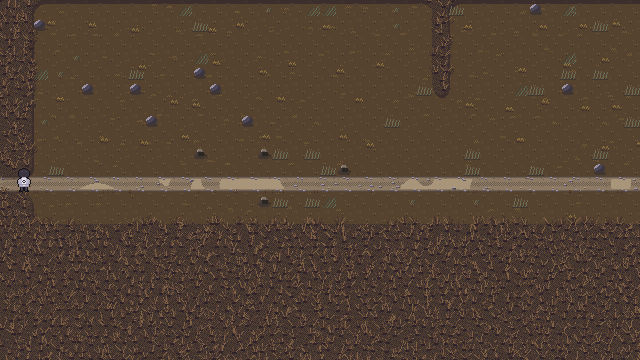
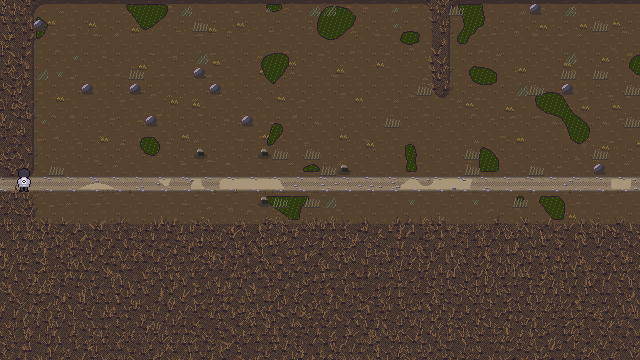
feat(terreno): rasgos de región en lo enfermo y cierre del paso 4a

diff --git a/tools/gen_tierra_viva_terrain.py b/tools/gen_tierra_viva_terrain.py
@@ -80,6 +80,8 @@ def palette(state: str, region: str) -> dict[str, list[np.ndarray]]:
                               "ash", "gold", "roof_red", "ink")}
     dead = seven(ramp("dead_leaf"), [0, 1, 2, 3, 4, 5, 5])
     p["dead"] = dead
+    p["sludge"] = ramp("sludge")
+    p["smog"] = ramp("smog")
     p["fire"] = ramp("fire")
     p["frailejon"] = seven(ramp("frailejon"), [0, 0, 1, 2, 3, 4, 4])
     if region == "cumbre":
@@ -482,8 +484,10 @@ def piece(kind, P, rs):
         W, H = 14, 26
         img = np.zeros((H, W, 4), np.uint8)
         dry = kind == "frailejon_dry"
-        skirt = P["dead"]
-        # tronco cubierto de hojas secas, como el frailejón de verdad
+        # tronco cubierto de hojas secas, como el frailejón de verdad. En lo
+        # sano, madera (neutra): `dead_leaf` es solo de lo enfermo y el
+        # cuantizado la tapaba (111 494 px movidos en la Cumbre sana).
+        skirt = P["dead"] if dry else P["wood"]
         img[9:H, 5:9] = skirt[2]
         img[9:H, 5:6] = skirt[3]
         img[9:H:3, 5:9] = skirt[1]
@@ -756,7 +760,41 @@ def render_crypt(lines: list[str], state: str) -> np.ndarray:
                 img[y, x:x + 3] = g[4]
                 img[y + 1, x:x + 3] = g[2]
                 img[y, x] = g[5]
+    if sick:
+        # smog: donde en lo sano entra la luz, en lo enfermo flotan jirones
+        # finos de humo, tramados y escasos (es una rampa clara y baja el valor)
+        wisp = floor & ~carpet & (crypt_light(H, W) > 0) & ((xx + yy * 3) % 5 == 0) & ((xx // 3 + yy) % 4 == 0)
+        img[wisp] = P["smog"][0]
     return img
+
+
+def paint_blight(img, ground, region: str, state: str, P: dict, rng) -> None:
+    """El daño propio de cada región sobre el suelo libre (sistema de diseño,
+    «Mundo enfermo, uno por región»): lodo de monocultivo en la Llanura y
+    hollín en la Cumbre. El ruido se calcula en los dos estados para que la
+    semilla no se desalinee; solo se pinta en lo enfermo."""
+    H, W = ground.shape
+    nz = ndi.gaussian_filter(rng.random((H // 8 + 2, W // 8 + 2)), 1.6)
+    nz = ndi.zoom(nz, 8, order=1)[:H, :W]
+    if state == "sano" or region not in ("llanura", "cumbre"):
+        return
+    yy, xx = np.indices(ground.shape)
+    chk = (xx + yy) % 2 == 0
+    if region == "llanura":
+        # charcos de lodo en el tono más bajo de su rampa, con grumos sueltos
+        # un tono arriba y borde de hierba seca oscura. Con el tono medio
+        # salían verde lima, y en este juego el verde dice «purificado».
+        blob = ground & (nz > np.quantile(nz, 0.93))
+        blob = ndi.binary_opening(blob, disk(2))
+        sl = P["sludge"]
+        img[blob] = sl[0]
+        img[blob & chk & ((xx * 3 + yy) % 7 == 0)] = sl[1]
+        img[edge(blob, 1)] = P["grass"][1]
+    else:
+        # hollín tramado: manchas de ceniza sobre el pajonal seco
+        blob = ground & (nz > np.quantile(nz, 0.80))
+        img[blob & chk] = P["ash"][0]
+        img[blob & ~chk & ((xx + 2 * yy) % 3 == 0)] = P["ash"][1]
 
 
 def render(lines: list[str], state: str, region: str) -> np.ndarray:
@@ -793,6 +831,7 @@ def render(lines: list[str], state: str, region: str) -> np.ndarray:
 
     free = ~ndi.binary_dilation(path | wat | foliage | sand, iterations=4)
     paint_tufts(img, free, P, rng)
+    paint_blight(img, free, region, state, P, rng)
     paint_mass(img, foliage, region, state, P, rng)
     return img
 

diff --git a/docs/ux/sistema-de-diseno/documentos/2026-10-30-tierra-viva.md b/docs/ux/sistema-de-diseno/documentos/2026-10-30-tierra-viva.md
@@ -569,3 +569,98 @@ fuente, columnas de la Cripta) es el viejo y se rehace en el paso 4.
 - los sprites del catálogo de cada `*.deco.txt`, con el estilo del
   prototipo y el contorno de su rampa;
 - los edificios y vecinos de PixelLab, a `assets/source/pixellab/`.
+
+**Visto bueno de Diego al paso 3: 2026-10-31.**
+
+#### Corrección contra el sistema de diseño · 2026-11-01
+
+Diego descargó el sistema de diseño «Tierra Viva» y ahora está en el repo, en
+`docs/ux/sistema-de-diseno/`. Al cotejar los pasos 2 y 3 con él salieron
+diferencias, y Diego aprobó corregirlas (2026-10-31):
+
+- **Bosque enfermo = incendio** (`ash` + `fire`): árboles quemados sin copa,
+  con hollín al pie y brasas. Antes eran copas de hoja muerta.
+- **Los bosques se cierran con muros de árboles solapados**, con troncos;
+  antes eran una alfombra de copas.
+- **Arbustos enfermos = ramitas secas**, no manchas oscuras.
+- **Rasgos de región pendientes:** `sludge` en la Llanura enferma, hollín
+  sobre `ice` en la Cumbre y `smog` en la Cripta.
+- **Para otras partes:** la caja de diálogo (papel con marco de madera)
+  choca con el contrato «Columna» de la parte 5; el cartel de lugar, el HUD
+  de acción y los personajes de 48 px son de R2 y R3.
+
+#### Enmienda 14 — La masa sustituye al relleno · autorizada por Diego el 2026-10-31
+
+- En una zona con suelo de Tierra Viva, las piezas `tree`, `tree_b`,
+  `burnt_tree`, `bush`, `pine` y `boulder` que caen **enteras dentro del
+  follaje sólido** no se montan: ni sprite ni cuerpo. La colisión ya sale de
+  la matriz. Antes eran unas 4.400 piezas en las seis regiones.
+  - `WorldDecor.FILL`, `has_terrain()` e `is_fill()`.
+  - `verify_zone` cuenta con la misma regla.
+  - El Bosque pasa de unos 680 sprites de decorado a 82.
+- **Cada región tiene su masa** en el generador (`MASS` en
+  `gen_tierra_viva_terrain.py`), colocada en los mismos sitios en los dos
+  estados:
+
+  | Región | Sano | Enfermo |
+  |---|---|---|
+  | Bosque | muro de árboles solapados | árboles quemados con brasas; el borde entero y uno de cada tres dentro |
+  | Cuenca | muro de árboles | árboles quemados sin brasas |
+  | Costa y Llanura | arbustos | ramitas secas |
+  | Cumbre | frailejones | frailejones secos |
+
+**Paso 4a, estado al 2026-11-01 (parcial, subido para que el equipo siga):**
+
+- **Medido en verde:**
+  - `verify_palette image` y `tv-state` en las doce imágenes;
+  - `value`: Bosque 1,63–1,79, Cuenca 1,54–1,67, Costa 1,54–1,60,
+    Llanura 1,83–2,09 y Cumbre 2,35–2,53;
+  - `verify_terrain` 7/7 en las seis regiones;
+  - `verify_usability` 16/16, `verify_camera` 37/37, `verify_encounters`
+    82/82, `verify_flow` 23/23, `verify_party_ai` 19/19 y
+    `verify_movement` 99/99;
+  - `verify_zone`: Bosque 46/46 y Valdehoja 55/55.
+- **Sin medir:** `verify_zone` en Cuenca, Costa, Llanura, Cumbre y Cripta.
+  La pasada se cortó porque el equipo se quedó sin memoria, no por un
+  fallo. Es lo primero que hay que correr.
+- **Falta:**
+  - el `sludge` de la Llanura, el hollín sobre `ice` de la Cumbre y el
+    `smog` de la Cripta;
+  - repasar las capturas a 640 × 360: `verify_terrain` ya las regeneró con
+    las masas nuevas (`2026-10-31-terreno-<zona>-*.png`), pero falta
+    rehacerlas con los rasgos de región;
+  - el visto bueno de Diego.
+- **El paso a paso desde aquí** está en `docs/guia-del-equipo.md`.
+
+#### Paso 4a — Cierre: rasgos de región · 2026-11-01
+
+- **`verify_zone` en las cinco zonas que faltaban, en verde:** Cuenca 45/45,
+  Costa 47/47, Llanura 45/45, Cumbre 46/46 y Cripta 50/50.
+- **`paint_blight`**, el daño propio de cada región sobre el suelo libre.
+  El ruido se calcula en los dos estados, para que la semilla no se
+  desalinee, y solo se pinta en lo enfermo:
+  - **Llanura:** charcos de lodo (`sludge`) en el tono más bajo de la
+    rampa, con grumos y borde de hierba seca.
+  - **Cumbre:** hollín tramado en los dos tonos más oscuros de la ceniza.
+- **Cripta:** jirones de `smog` finos y escasos donde en lo sano entra la
+  luz.
+- **Dos fallos propios, y se dicen:**
+  1. **El lodo salió verde lima** con el tono medio de su rampa. En este
+     juego el verde dice «purificado», así que se bajó al tono más oscuro y
+     a manchas más pequeñas. El hollín se leía como charcos azulados: se
+     oscureció igual.
+  2. **El frailejón sano llevaba la falda en `dead_leaf`,** que es solo de
+     lo enfermo. El cuantizado lo tapaba moviendo 111 494 px en la Cumbre
+     sana, y se vio por su contador. Ahora la falda es madera (neutra) y
+     **las doce imágenes salen con 0 píxeles movidos**: todo nace en su
+     token.
+- **Medido:**
+  - `verify_palette image` y `tv-state` en verde;
+  - `value`: Llanura 1,84–2,10, Cumbre 2,42–2,61 y Cripta 1,76–1,78; las
+    demás, como en la entrada anterior;
+  - `verify_terrain` 7/7 en las seis regiones.
+- **Capturas a 640 × 360:**
+  `docs/ux/capturas/2026-10-31-terreno-<zona>-{enfermo,ola,sano}.png`.
+
+**Siguiente:** paso 4b, los sprites del catálogo, empezando por el Bosque
+(guía del equipo, §4.2).

diff --git a/docs/ux/anexos/2026-10-30-tierra-viva.md b/docs/ux/anexos/2026-10-30-tierra-viva.md
@@ -631,3 +631,36 @@ diferencias, y Diego aprobó corregirlas (2026-10-31):
     rehacerlas con los rasgos de región;
   - el visto bueno de Diego.
 - **El paso a paso desde aquí** está en `docs/guia-del-equipo.md`.
+
+#### Paso 4a — Cierre: rasgos de región · 2026-11-01
+
+- **`verify_zone` en las cinco zonas que faltaban, en verde:** Cuenca 45/45,
+  Costa 47/47, Llanura 45/45, Cumbre 46/46 y Cripta 50/50.
+- **`paint_blight`**, el daño propio de cada región sobre el suelo libre.
+  El ruido se calcula en los dos estados, para que la semilla no se
+  desalinee, y solo se pinta en lo enfermo:
+  - **Llanura:** charcos de lodo (`sludge`) en el tono más bajo de la
+    rampa, con grumos y borde de hierba seca.
+  - **Cumbre:** hollín tramado en los dos tonos más oscuros de la ceniza.
+- **Cripta:** jirones de `smog` finos y escasos donde en lo sano entra la
+  luz.
+- **Dos fallos propios, y se dicen:**
+  1. **El lodo salió verde lima** con el tono medio de su rampa. En este
+     juego el verde dice «purificado», así que se bajó al tono más oscuro y
+     a manchas más pequeñas. El hollín se leía como charcos azulados: se
+     oscureció igual.
+  2. **El frailejón sano llevaba la falda en `dead_leaf`,** que es solo de
+     lo enfermo. El cuantizado lo tapaba moviendo 111 494 px en la Cumbre
+     sana, y se vio por su contador. Ahora la falda es madera (neutra) y
+     **las doce imágenes salen con 0 píxeles movidos**: todo nace en su
+     token.
+- **Medido:**
+  - `verify_palette image` y `tv-state` en verde;
+  - `value`: Llanura 1,84–2,10, Cumbre 2,42–2,61 y Cripta 1,76–1,78; las
+    demás, como en la entrada anterior;
+  - `verify_terrain` 7/7 en las seis regiones.
+- **Capturas a 640 × 360:**
+  `docs/ux/capturas/2026-10-31-terreno-<zona>-{enfermo,ola,sano}.png`.
+
+**Siguiente:** paso 4b, los sprites del catálogo, empezando por el Bosque
+(guía del equipo, §4.2).

diff --git a/docs/guia-del-equipo.md b/docs/guia-del-equipo.md
@@ -1,6 +1,6 @@
 # Guía del equipo: de aquí hasta el juego terminado
 
-Para **Diego y su compañero**. Dice cómo preparar el equipo, cómo se trabaja,
+Para **Diego y su compañero**. **Siguiente tarea: §4.2 (paso 4b).** Dice cómo preparar el equipo, cómo se trabaja,
 en qué punto exacto está el juego y, en orden, **todo lo que falta** hasta
 entregarlo. Cada tarea trae qué hacer, dónde, cómo se comprueba y cuándo está
 hecha.
@@ -55,6 +55,9 @@ hecha.
   sin que hayas cambiado nada, descarta esos cambios
   (`git checkout -- project.godot docs/balance`).
 - Si el equipo va justo de memoria, corre las pruebas de una en una.
+- `--import` puede terminar con «Segmentation fault» al cerrarse. Las
+  texturas quedan importadas igual: lo confirma `verify_terrain`, que compara
+  la pantalla con el PNG píxel a píxel.
 
 ---
 
@@ -175,7 +178,7 @@ Cada bloque termina con su verificación y con la parada para el visto bueno
 de Diego. **Con cada uno se abre el README del sistema de diseño que se
 indica.**
 
-### 4.1 Terminar el paso 4a: masas de región
+### 4.1 Paso 4a: masas de región · HECHO el 2026-11-01 (falta el visto bueno de Diego)
 
 Sistema de diseño: `project/README.md` §Mundo, `components/Regiones/README.md`
 y `components/Terrain/README.md`.

diff --git a/docs/traspaso.md b/docs/traspaso.md
@@ -75,7 +75,8 @@ Las capturas necesitan ventana: `xvfb-run -a $GODOT --path . res://tools/<x>_cap
 - **Visto bueno de Diego al paso 1:** 2026-10-30.
 - **Tarea 1 hecha** (2026-10-30), con el visto bueno de Diego. Entra en el PR #20.
 - **Tarea 2 hecha** (2026-10-31, rama `rediseno/terreno`), con el visto bueno de Diego: `tools/gen_tierra_viva_terrain.py`, `WorldRoot._mount_terrain` y `tools/verify_terrain.tscn`.
-- **Tarea 3 hecha** (2026-10-31): las seis regiones pintadas; `verify_terrain` 7/7 en cada una y `value` ≥ 1,61 en las cuatro visiones. La Cripta tiene luz por bandas. Falta el visto bueno de Diego.
+- **Tarea 3 hecha** (2026-10-31), con el visto bueno de Diego.
+- **Paso 4a hecho** (2026-11-01): masas de región según el sistema de diseño (enmienda 14) y rasgos de región; `verify_terrain` 7/7 y `verify_zone` en verde en las seis. Falta el visto bueno de Diego. Siguiente: §4.2 de `docs/guia-del-equipo.md`.
 
 ## 3. Lista de trabajo, en orden
 

diff --git a/docs/ux/sistema-de-diseno/documentos/traspaso.md b/docs/ux/sistema-de-diseno/documentos/traspaso.md
@@ -75,7 +75,8 @@ Las capturas necesitan ventana: `xvfb-run -a $GODOT --path . res://tools/<x>_cap
 - **Visto bueno de Diego al paso 1:** 2026-10-30.
 - **Tarea 1 hecha** (2026-10-30), con el visto bueno de Diego. Entra en el PR #20.
 - **Tarea 2 hecha** (2026-10-31, rama `rediseno/terreno`), con el visto bueno de Diego: `tools/gen_tierra_viva_terrain.py`, `WorldRoot._mount_terrain` y `tools/verify_terrain.tscn`.
-- **Tarea 3 hecha** (2026-10-31): las seis regiones pintadas; `verify_terrain` 7/7 en cada una y `value` ≥ 1,61 en las cuatro visiones. La Cripta tiene luz por bandas. Falta el visto bueno de Diego.
+- **Tarea 3 hecha** (2026-10-31), con el visto bueno de Diego.
+- **Paso 4a hecho** (2026-11-01): masas de región según el sistema de diseño (enmienda 14) y rasgos de región; `verify_terrain` 7/7 y `verify_zone` en verde en las seis. Falta el visto bueno de Diego. Siguiente: §4.2 de `docs/guia-del-equipo.md`.
 
 ## 3. Lista de trabajo, en orden
 

diff --git a/docs/plan-de-trabajo.md b/docs/plan-de-trabajo.md
@@ -44,7 +44,7 @@ válidos:
 
 > **2026-11-01. Guía del equipo: `docs/guia-del-equipo.md`** (lo que falta, en orden).
 > Rama de trabajo: `rediseno/terreno`. El paso 4a (masas de región, enmienda 14)
-> está a medias; su siguiente acción es la §4.1 de la guía. **Todo lo visual
+> está hecho (falta el visto bueno de Diego); lo siguiente es la §4.2 de la guía, el paso 4b. **Todo lo visual
 > sigue el sistema de diseño de `docs/ux/sistema-de-diseno/`.**
 
 
